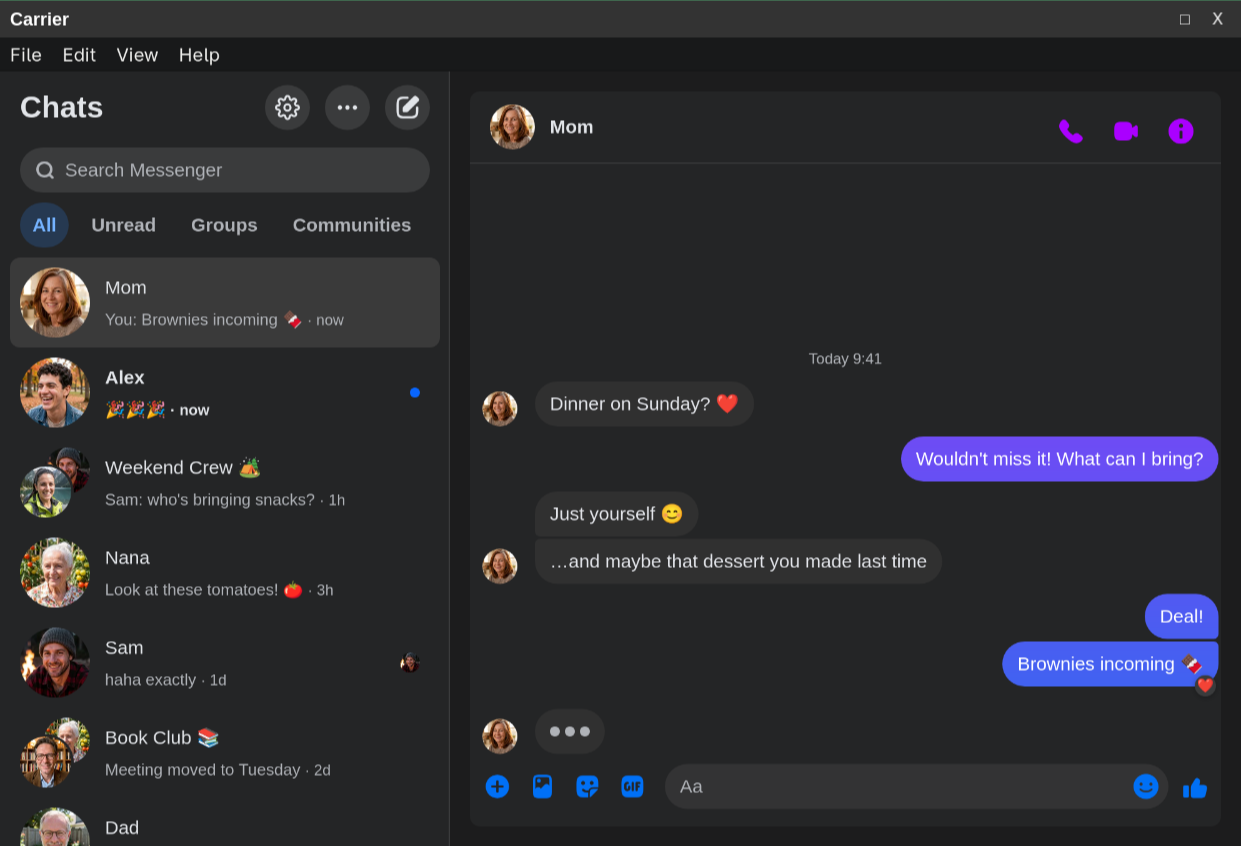
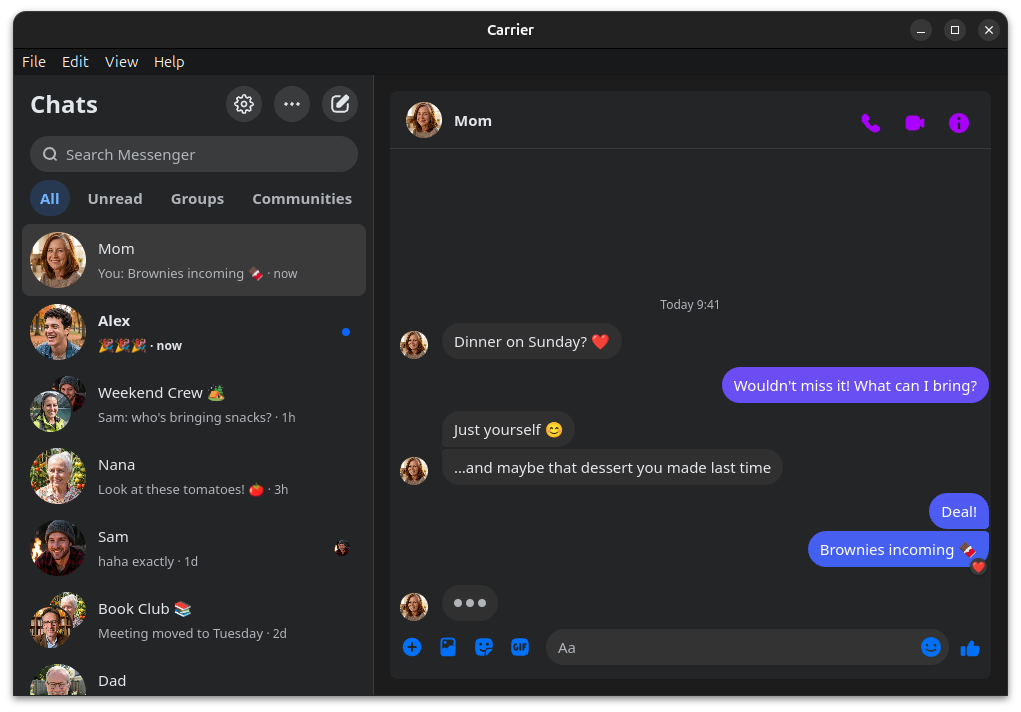
docs(linux): use Ubuntu store screenshots and record candidate checks

diff --git a/packaging/screenshots/README.md b/packaging/screenshots/README.md
@@ -3,10 +3,12 @@
 Use only fictional English content. Never capture a signed-in personal profile,
 real conversations, contact names, photos, notifications, IDs, or desktop content.
 
-The current images in `docs/screenshots/` were captured on Linux from a floating
-Carrier debug window with the installed Floating Mode / Hyprbars decoration.
-They retain the website demo's 993 × 620 CSS-pixel conversation area at 100% zoom.
-The resulting PNGs are 1241 × 846 pixels, including the native menu and title bar.
+The current images in `docs/screenshots/` were captured on Ubuntu from a floating
+Carrier debug window with native GNOME / Yaru decorations, rounded corners, and
+window shadows. They retain the website demo's 993 × 620 CSS-pixel conversation
+area at 100% zoom. The resulting PNGs are 1021 × 712 pixels, including the native
+menu, title bar, and shadow. Light is the default AppStream screenshot; use dark
+first and light second in the Snap listing.
 The capture build uses the title `Carrier`; normal debug builds retain their
 debug label. The title is rendered by the window manager, not edited into the PNG.
 
@@ -19,18 +21,19 @@ documented in commits `17fab64` and `bc1c168` and the website's avatar CSS comme
 
 The fixture is rendered inside Carrier's real WebKit window. It replaces the
 page with the website's demo conversation markup; it is not a capture of live
-Messenger conversations. The native Linux menu and Floating Mode title bar are
-real. No image compositing or post-capture editing is used.
+Messenger conversations. The native Linux menu and Ubuntu title bar are real.
+No image compositing or post-capture editing is used.
 
 Before any upload, both captures were visually inspected in full, their content
 was checked against the fixture, and their PNG chunks were inspected. They have
-only IHDR, IDAT, and IEND chunks, with no text or EXIF metadata. No desktop
+only IHDR, sBIT, tEXt, IDAT, and IEND chunks. The sole text field is
+`Software=gnome-screenshot`; there is no account, location, or EXIF metadata. No desktop
 notifications, pointer, underlying windows, or personal data are visible.
 
 | Image | SHA-256 |
 | --- | --- |
[4 lines of base64/hex data omitted]
 
 The AppStream URLs point to these inspected files on the permanent artifact
 host. Replacing either image requires a new privacy inspection before upload.
@@ -45,16 +48,24 @@ host. Replacing either image requires a new privacy inspection before upload.
 2. Launch it with fresh, empty `XDG_CONFIG_HOME`, `XDG_DATA_HOME`, and
    `XDG_CACHE_HOME` directories and a dedicated `CARRIER_MCP_SOCKET_PATH`. Never
    copy cookies, a browser profile, or user settings into this capture profile.
-3. In that isolated profile, set zoom to 100, the desired light/dark theme,
-   `title_bar` to `hide`, and disable autostart, updates, tray, and global hotkey.
-   Use Floating Mode's native decoration for the title bar. Make the window
-   opaque and floating. Resize until its WebKit viewport is exactly 993 × 620.
+3. Use an isolated Ubuntu GNOME session with Yaru (or Yaru-dark), the Ubuntu
+   settings overrides, and `gsd-xsettings` running. A separate Xvfb display and
+   D-Bus session keep captures independent of the signed-in test desktop. Use
+   `GSETTINGS_BACKEND=keyfile` with the empty capture configuration directory so
+   theme changes cannot affect the test account's dconf settings. In Carrier,
+   set zoom to 100, the desired light/dark theme, `title_bar` to `auto`, and disable
+   autostart, updates, tray, and global hotkey. Keep the window unmaximized and
+   resize until its WebKit viewport is exactly 993 × 620 (993 × 646 client area
+   with the current Ubuntu menu).
 4. Run `bun packaging/screenshots/inject-demo.ts <dedicated-socket> light`
    (or `dark`). The script takes no content from the original page, embeds only
    English portraits, blocks external resources, and stops existing page timers.
-5. Wait for portraits to render. Capture only the exact window and its title bar,
-   with the pointer outside it and no overlapping notifications. Read geometry
-   after the window manager has finished positioning; don't reuse stale bounds.
+5. Wait for portraits to render. Capture the focused window with
+   `gnome-screenshot --window --file=<output.png>`, with the pointer outside it.
+   Set both `DISPLAY` and `DBUS_SESSION_BUS_ADDRESS` to the isolated capture
+   session: setting only `DISPLAY` can capture the other desktop through D-Bus.
+   Read geometry after positioning; don't reuse stale bounds. The native
+   screenshot includes the title bar, rounded corners, and transparent shadow.
 6. Inspect every pixel region and PNG metadata before uploading. Update the
    images, checksums, and AppStream URLs together. Restore temporary compositor
    settings and close only the capture instance when finished.

diff --git a/packaging/testing/README.md b/packaging/testing/README.md
@@ -68,3 +68,31 @@ recovery must only redirect the plain feed, preserving required post-login UI.
 The first CI pass also exposed missing D-Bus session setup and the Flatpak checkout
 manifest's out-of-directory source path. Keep ARM64 CI and signed-in runtime
 checks separate from the x86-64 build evidence.
+
+## Exact CI candidate: e4ec40e
+
+The x86-64 artifacts from GitHub Actions run `34281913517` were downloaded and
+installed in the Ubuntu VM on 2026-09-09. Host and guest SHA-256 hashes match:
+
+| Artifact | SHA-256 |
+| --- | --- |
[2 lines of base64/hex data omitted]
+
+Confirmed on X11:
+
+- Snap installation preserved the dedicated account's login and opened Messenger.
+- Flatpak installation succeeded and displayed its separate login screen.
+- Both sandboxes could write a probe file to the real Downloads directory and
+  query GNOME's notification capabilities.
+- Flatpak exposed FileChooser portal version 3 and could not read an unrelated
+  home-directory file.
+
+These permission probes do not establish end-to-end message notification or
+download behavior. Flatpak sign-in, real message delivery and actions, attachment
+downloads, media/calls, and Wayland are still pending for these exact artifacts.
+The VM's standard VGA device exposes no `/dev/dri`; switch it to a supported
+virtual GPU before testing a native Wayland desktop. Snap's WebKit memory
+pressure monitor also produced AppArmor denials for `/proc/zoneinfo` and its
+cgroup memory limit while Messenger remained functional; no confinement policy
+was relaxed.

diff --git a/packaging/snap/README.md b/packaging/snap/README.md
@@ -46,8 +46,9 @@ the first upload enters review. Do not disable WebKit's sandbox to clear denials
 
 Snap owns updates. Carrier disables its GitHub update polling and installer in
 the package. Login startup remains unavailable until Snap autostart integration
-is implemented. Notification avatars that require host access to a private
-temporary file are omitted; notification text and actions remain enabled.
+is implemented. Notification avatars are sent as inline image data over D-Bus,
+so the host notification
+daemon does not need access to files inside the sandbox.
 
 ## Publisher setup and release
 
